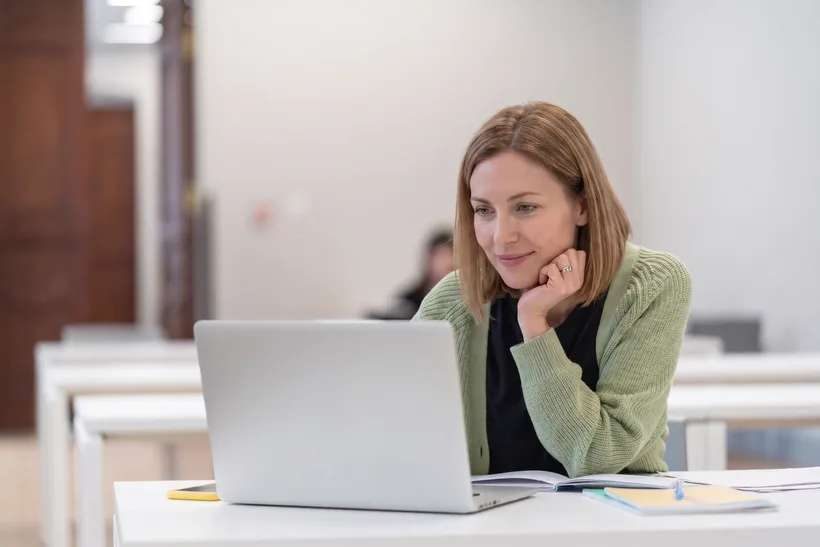
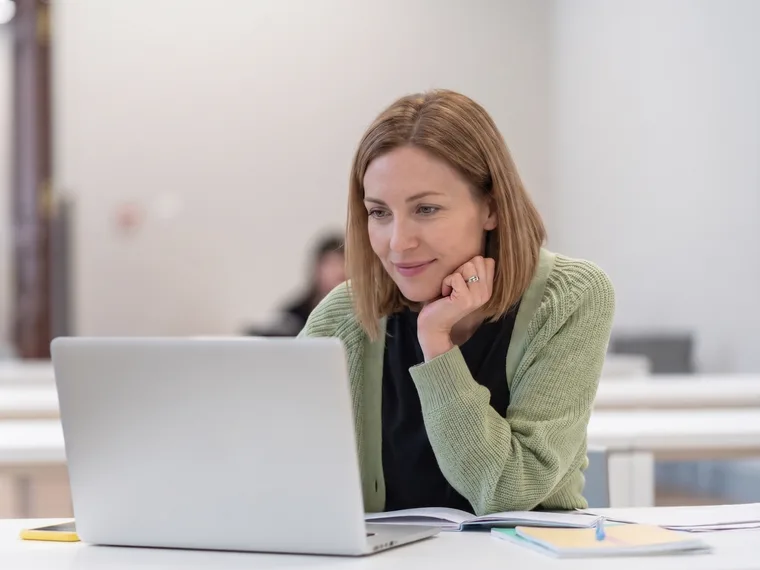
랜딩 사진 재조정 — 히어로: 사진 왼쪽 빈 교실을 잘라 4:3(글 옆에서 노트북 시작·인물 안쪽으로), 킬러: 2:1 복원(손·책상 보이게)
사용자: ①인물이 오른쪽에 쳐박힘 → 화면 끝 대신 콘텐츠 폭에 앵커 ②글과 인물 사이 빈 공간 과다 →
원본의 빈 왼쪽 460px 크롭 + 페이드 34%→20% ③남자 사진 바닥(책상·손) 잘림 → 21:9 를 파일 비율 2:1 로
④남자는 얼굴만 나오면 안 됨 → 장면 전체 유지(폰도 세로 안 자름).

Claude-Session: https://claude.ai/code/session_015ntztHY16dwUNcsGi34qxS

diff --git a/index.html b/index.html
@@ -324,18 +324,20 @@ section{padding:88px 0;}
    왼쪽 34% 페이드에 닿지 않는다(얼굴이 중요 — 사용자). 폰·아이패드 세로는 아래 900 블록의 카드 그대로. */
 @media (min-width:901px){
   .hero-demo{
-    right:calc((min(100vw, 1120px) - 100vw) / 2);   /* 화면 오른쪽 끝까지 */
-    width:min(820px, 58vw);
+    /* right:0 = 콘텐츠 폭(wrap) 오른쪽 — 화면 끝까지 밀었더니 인물이 오른쪽에 쳐박혔다(사용자 2026-08-27).
+       사진도 왼쪽 빈 교실을 잘라 4:3 로 다시 만듦 — 글과 인물 사이 빈 공간이 너무 많다(사용자) → 내용(노트북)이 글 옆에서 바로 시작 */
+    right:0;
+    width:min(760px, 54vw);
   }
   .hero-photo{
-    border-radius:0 20px 20px 0; box-shadow:none;
-    -webkit-mask-image:linear-gradient(to right, transparent 0, #000 34%);
-    mask-image:linear-gradient(to right, transparent 0, #000 34%);
+    border-radius:20px; box-shadow:none;
+    -webkit-mask-image:linear-gradient(to right, transparent 0, #000 20%);
+    mask-image:linear-gradient(to right, transparent 0, #000 20%);
   }
 }
-/* 901~1150px(아이패드 가로 등): 58vw 는 글 밑까지 파고든다(실측) → 한 단계 좁게 */
+/* 901~1150px(아이패드 가로 등): 큰 폭은 글 밑까지 파고든다(실측) → 한 단계 좁게 + 가장자리 여백 */
 @media (min-width:901px) and (max-width:1150px){
-  .hero-demo{ width:min(640px, 54vw); }
+  .hero-demo{ width:min(620px, 52vw); right:24px; }
 }
 @media (max-width:1100px){
   .hero-left{ max-width:460px; }
@@ -546,7 +548,8 @@ section{padding:88px 0;}
   border-radius:20px; overflow:hidden;
   box-shadow:0 24px 50px -20px rgba(0,0,0,.5);
 }
-.killer-photo img{display:block; width:100%; height:auto; aspect-ratio:21/9; object-fit:cover; object-position:center 30%;}
+/* 2:1 = 파일 비율 그대로 — 21:9 로 눌렀더니 책상·손이 잘렸다(사용자 2026-08-27) */
+.killer-photo img{display:block; width:100%; height:auto; aspect-ratio:2/1; object-fit:cover; object-position:center 30%;}
 @media (max-width:600px){ .killer-photo img{aspect-ratio:3/2;} }
 .killer-encourage{
   margin-top:16px; font-size:13.5px; color:rgba(255,255,255,.45);
@@ -940,9 +943,9 @@ html{scrollbar-gutter:stable;}
          첫 화면의 가장 큰 그림(LCP)이라 lazy 금지 · fetchpriority=high. 원본 = new landing design\ -->
     <div class="hero-demo" aria-hidden="true">
       <img class="hero-photo" src="hero-study.webp"
-           srcset="hero-study.webp 820w, hero-study-2x.webp 1640w"
-           sizes="(max-width:900px) 92vw, 58vw"
-           width="820" height="547" alt="" fetchpriority="high">
+           srcset="hero-study.webp 760w, hero-study-2x.webp 1520w"
+           sizes="(max-width:900px) 92vw, 54vw"
+           width="760" height="570" alt="" fetchpriority="high">
     </div>
 
   </div>
